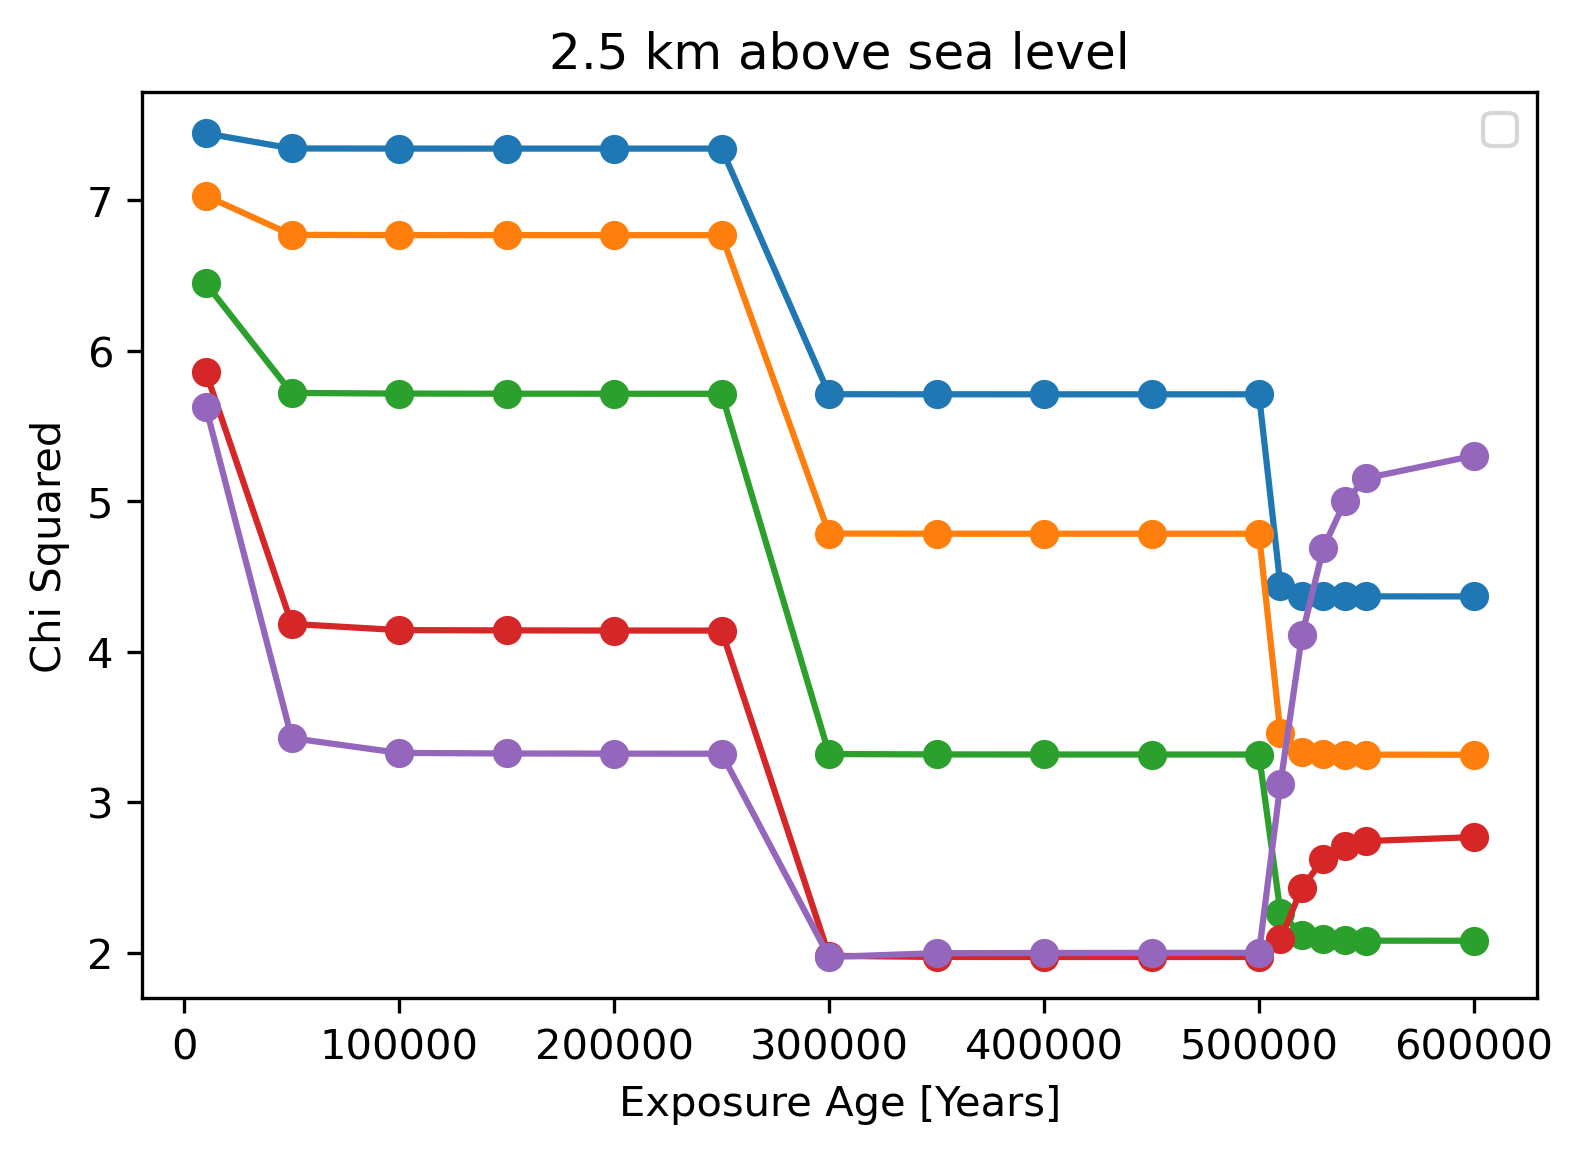
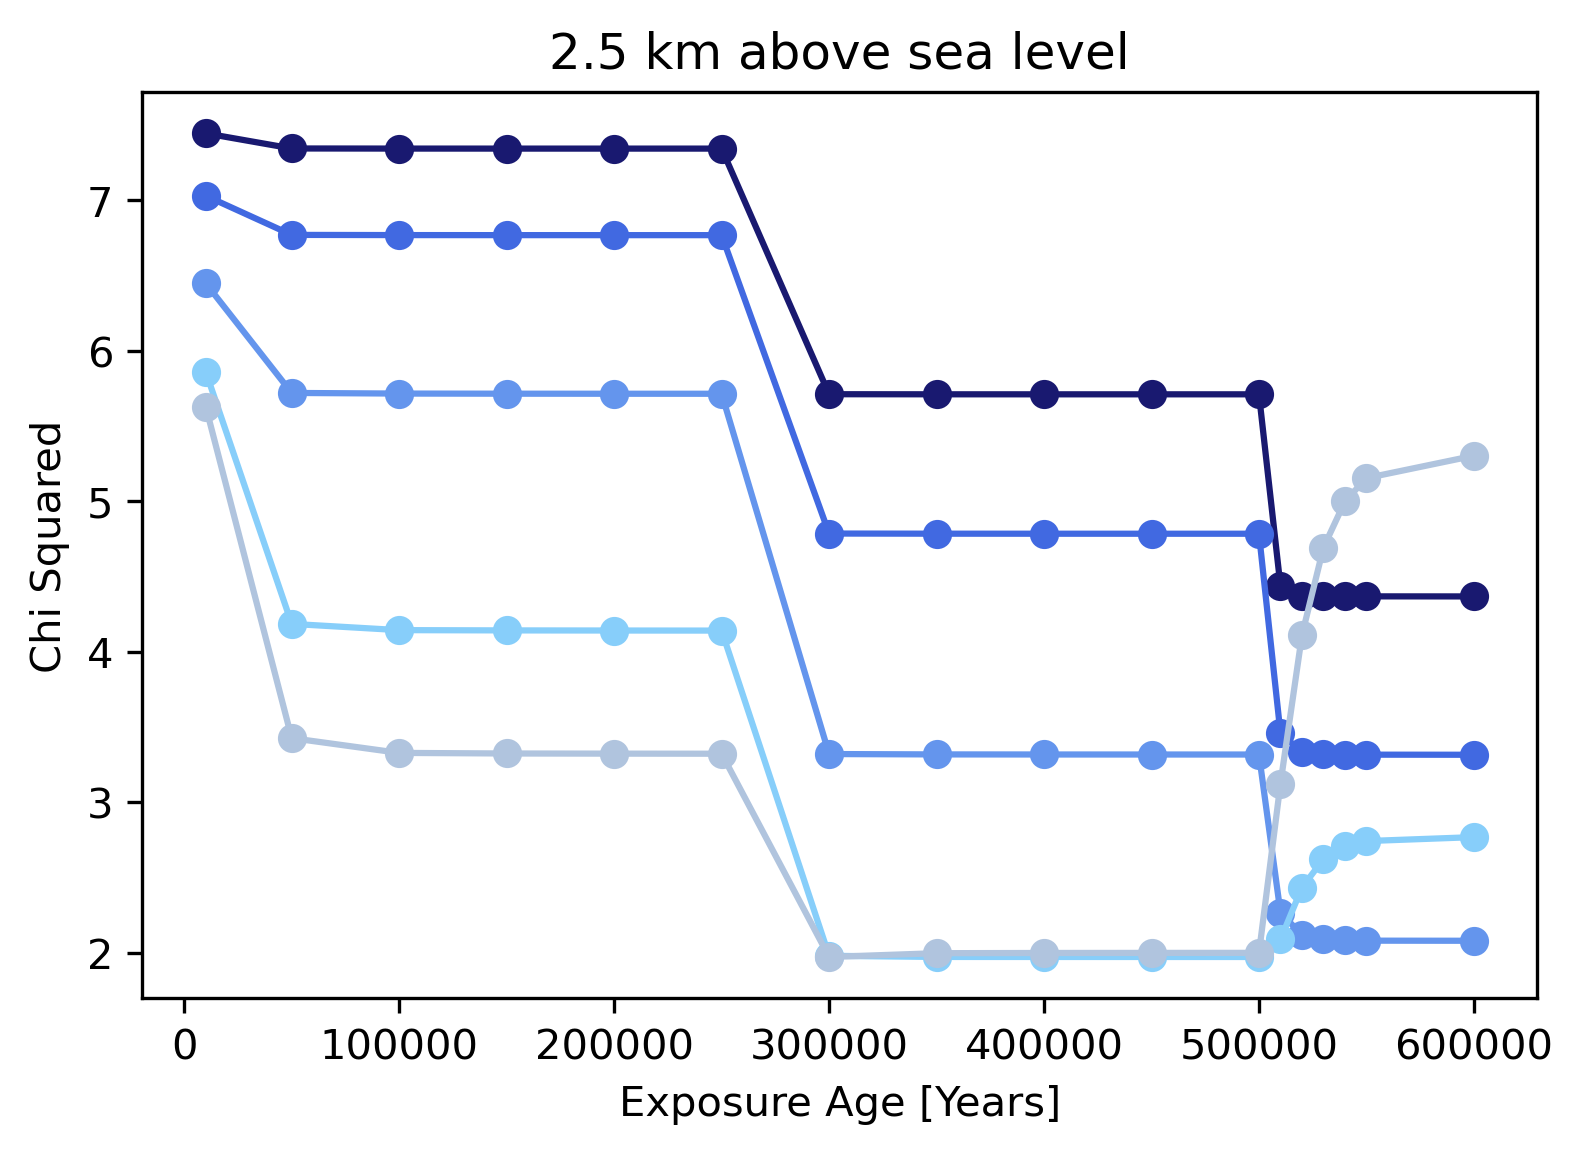
Fixed comments in MCADAM script

diff --git a/src/for plotting.py b/src/for plotting.py
@@ -9,14 +9,13 @@ import numpy as np
 
 import matplotlib.pyplot as plt
 import Read
-import pandas
+import pandas as pd
 import Rc
 import Pmag_paleolat
 import glob
 import os
 # import scaling_factor
 import neutron_spallation
-# import Pmag_paleolat
 # # import proton_spallation
 # import matplotlib.gridspec as gridspec
 
@@ -461,13 +460,13 @@ LIBARKIN DATASET
 
 # xaxis = [10000,50000,100000,150000,200000,250000,300000,350000,400000,450000,500000,510000,520000,530000,540000,550000,600000]
 
-# """FOR 2.5KM"""
-# plt.plot(xaxis,Read.chisq_neg203.values.tolist(), 'o-')
-# plt.plot(xaxis,Read.chisq_neg153.values.tolist(), 'o-')
-# plt.plot(xaxis,Read.chisq_neg103.values.tolist(), 'o-')
-# plt.plot(xaxis,Read.chisq_neg625.values.tolist(), 'o-')
+# # """FOR 2.5KM"""
+# plt.plot(xaxis,Read.chisq_neg203.values.tolist(), 'o-', c = 'midnightblue')
+# plt.plot(xaxis,Read.chisq_neg153.values.tolist(), 'o-', c = 'royalblue')
+# plt.plot(xaxis,Read.chisq_neg103.values.tolist(), 'o-', c = 'cornflowerblue')
+# plt.plot(xaxis,Read.chisq_neg625.values.tolist(), 'o-', c = 'lightskyblue')
 
-# plt.plot(xaxis,Read.chisq_neg53.values.tolist(), 'o-')
+# plt.plot(xaxis,Read.chisq_neg53.values.tolist(), 'o-', c = 'lightsteelblue')
 
 # #plt.plot(xaxis,Read.chisq_neg33.values.tolist(), 'o-',label = "3*10^-3")
 
@@ -476,13 +475,13 @@ LIBARKIN DATASET
 # plt.xlabel('Exposure Age [Years]')
 # plt.ylabel('Chi Squared')
 # plt.title('2.5 km above sea level')
-# plt.legend()
 
 # plt.savefig(Read.directory+'/plots/Libarkin_2km_unlabeled.png', dpi = 300, bbox_inches='tight')
 
 
 # """ FOR SEA LEVEL"""
-# # # plt.plot(xaxis,Read.SLchisq_neg53.values.tolist(), 'o-',label = "5*10^-3")
+# # # plt.plot(xaxis,Read.SLchisq_neg53.values.tolist()
+# , 'o-',label = "5*10^-3")
 # # # plt.plot(xaxis,Read.SLchisq_neg33.values.tolist(), 'o-',label = "3*10^-3")
 
 # # # plt.plot(xaxis,Read.SLchisq_neg3.values.tolist(), 'o-',label = "10^-3")
@@ -511,22 +510,21 @@ LIBARKIN DATASET
 
 
 #need specific excel sheet. Ran using quartz conditions. Only need 1 time bin
-# plt.figure(figsize=(8,6)) 
-# plt.yscale('log')
-# plt.xscale('log')
-# plt.plot(neutron_spallation.E.iloc[:,0], neutron_spallation.PhiGMev[0]*neutron_spallation.E.iloc[:,0], c = 'darkblue', label = 'Terrestrial surface at poles (neutrons)')
-# #plt.plot(neutron_spallation.E.iloc[:,0], neutron_spallation.PhiGMev[2]*neutron_spallation.E.iloc[:,0], c = 'darkblue', label = 'Sea level, equator')
-# #plt.plot(neutron_spallation.E.iloc[:,0], neutron_spallation.PhiGMev[4]*neutron_spallation.E.iloc[:,0], '--',c = 'darkgreen', label = '1000 masl, pole')
-# #plt.plot(neutron_spallation.E.iloc[:,0], neutron_spallation.PhiGMev[6]*neutron_spallation.E.iloc[:,0], c = 'darkgreen',label = '1000 masl, equator')
-# #plt.plot(neutron_spallation.E.iloc[:,0], neutron_spallation.PhiGMev[8]*neutron_spallation.E.iloc[:,0], '--', c = 'darkgreen', label = '2000 masl, pole')
-# #plt.plot(neutron_spallation.E.iloc[:,0], neutron_spallation.PhiGMev[10]*neutron_spallation.E.iloc[:,0],  c = 'darkgreen', label = '2000 masl, equator')
-# # plt.plot(neutron_spallation.E.iloc[:,0], neutron_spallation.PhiGMev[12]*neutron_spallation.E.iloc[:,0], '--',c = 'darkgreen', label = '4000 masl, pole')
-# # plt.plot(neutron_spallation.E.iloc[:,0], neutron_spallation.PhiGMev[14]*neutron_spallation.E.iloc[:,0], c = 'darkblue',label = '4000 masl, equator')
-# # plt.plot(neutron_spallation.E.iloc[:,0], neutron_spallation.PhiGMev[16]*neutron_spallation.E.iloc[:,0],'--', c = 'purple',label = '6000 masl, pole')
-# # plt.plot(neutron_spallation.E.iloc[:,0], neutron_spallation.PhiGMev[18]*neutron_spallation.E.iloc[:,0], c = 'purple',label = '6000 masl, equator')
-# leya = Read.leya
+plt.figure(figsize=(8,6)) 
+plt.yscale('log')
+plt.xscale('log')
+plt.plot(neutron_spallation.E.iloc[:,0], neutron_spallation.PhiGMev[0]*neutron_spallation.E.iloc[:,0], c = 'darkblue', label = 'Terrestrial surface at poles (neutrons)')
+#plt.plot(neutron_spallation.E.iloc[:,0], neutron_spallation.PhiGMev[2]*neutron_spallation.E.iloc[:,0], c = 'darkblue', label = 'Sea level, equator')
+#plt.plot(neutron_spallation.E.iloc[:,0], neutron_spallation.PhiGMev[4]*neutron_spallation.E.iloc[:,0], '--',c = 'darkgreen', label = '1000 masl, pole')
+#plt.plot(neutron_spallation.E.iloc[:,0], neutron_spallation.PhiGMev[6]*neutron_spallation.E.iloc[:,0], c = 'darkgreen',label = '1000 masl, equator')
+#plt.plot(neutron_spallation.E.iloc[:,0], neutron_spallation.PhiGMev[8]*neutron_spallation.E.iloc[:,0], '--', c = 'darkgreen', label = '2000 masl, pole')
+#plt.plot(neutron_spallation.E.iloc[:,0], neutron_spallation.PhiGMev[10]*neutron_spallation.E.iloc[:,0],  c = 'darkgreen', label = '2000 masl, equator')
+# plt.plot(neutron_spallation.E.iloc[:,0], neutron_spallation.PhiGMev[12]*neutron_spallation.E.iloc[:,0], '--',c = 'darkgreen', label = '4000 masl, pole')
+# plt.plot(neutron_spallation.E.iloc[:,0], neutron_spallation.PhiGMev[14]*neutron_spallation.E.iloc[:,0], c = 'darkblue',label = '4000 masl, equator')
+# plt.plot(neutron_spallation.E.iloc[:,0], neutron_spallation.PhiGMev[16]*neutron_spallation.E.iloc[:,0],'--', c = 'purple',label = '6000 masl, pole')
+# plt.plot(neutron_spallation.E.iloc[:,0], neutron_spallation.PhiGMev[18]*neutron_spallation.E.iloc[:,0], c = 'purple',label = '6000 masl, equator')
 
-# plt.plot(leya['x'],leya[' y']*leya['x'], label = 'Meteoroid surface (protons)', c = 'cornflowerblue')
-# plt.ylabel('Differential Flux' r'$ \;\times$' 'Energy ' '$ (cm^{-2} s^{-1}$)', fontsize = 13)
-# plt.xlabel('Energy (MeV)', fontsize = 13)
-# plt.savefig(directory+'/plots/energies_prelims.png', dpi = 300, bbox_inches='tight')
+leya = pd.read_csv(directory+'/text_for_plots/leyadata.csv')
+plt.yscale('log')
+plt.xscale('log')
+plt.plot(leya['x'],leya[' y']*leya['x'], label = 'Meteoroid surface (protons)', c = 'cornflowerblue')

diff --git a/src/mcadam.py b/src/mcadam.py
@@ -60,10 +60,21 @@ PINT_model_250kyr = pd.DataFrame(data=d250kyr)
 PINT_model_500kyr = pd.DataFrame(data=d500kyr)
 PINT_model_1ma = pd.DataFrame(data=d1ma)
 
-##BELOW added by Moe for use in rest of model
+#BELOW added by Moe for use in rest of model
 updated_df =  PINT_model_250kyr[(PINT_model_250kyr ['age'] >= Read.timerange[0]) & (PINT_model_250kyr ['age'] < Read.timerange[1])]
 #print(PINT_df)
+means = updated_df['mean']
 
 #Add GEOMAGIA vals to mean list
-means = updated_df['mean']
+# time = np.arange(0,70+0.05,0.25)
+# plt.xlim(0, 70)
+
+# plt.plot(time,means, 'cornflowerblue', label = 'MCADAM')
+# plt.hlines(5.4,0,70, linestyle = '--', color = 'darkblue', label = 'LSD long term average')
+
+# plt.xlabel('Time (Ma)', size = 13)
+# plt.ylabel(r'Paleointensity (Am$^2$ $\times$ 10 $^{22}$)', size = 13)
+# plt.legend()
+
+# plt.savefig(directory+'/plots/paleointensity_prelims.png', dpi = 300, bbox_inches='tight')
 
